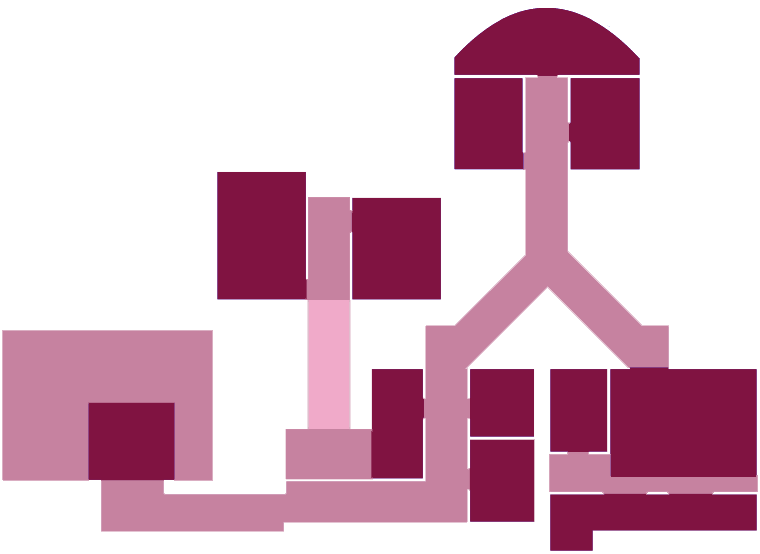
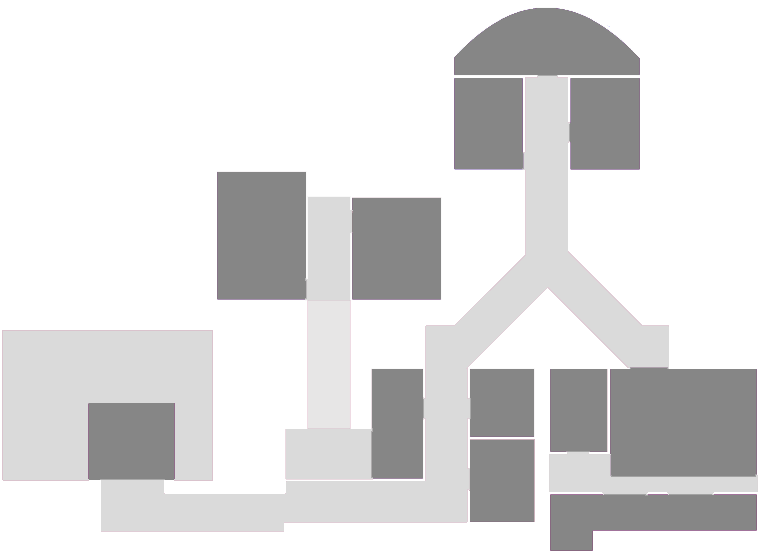
Added Settings Tab and Color Picker
Color Picker made by @KyreusR

I had to remake the branch since the main branch has a different commit history.

diff --git a/hooks/_hooks.cpp b/hooks/_hooks.cpp
@@ -25,9 +25,17 @@ std::vector<MapTexture> maps{
 bool LoadTextureFromFile(const char* filename, ID3D11ShaderResourceView** out_srv, int* out_width, int* out_height) {
 	int image_width = 0;
 	int image_height = 0;
-	unsigned char* image_data = stbi_load(filename, &image_width, &image_height, NULL, 4);
+	int channels = 0;
+	unsigned char* image_data = stbi_load(filename, &image_width, &image_height, &channels, 4);
 	if (image_data == NULL)
 		return false;
+
+	for (int i = 0; i < (image_width * image_height * channels); i += channels) {
+		if (image_data[i] == 255 && image_data[i + 1] == 255 && image_data[i + 2] == 255) continue;
+		image_data[i] *= State.SelectedColor.x;
+		image_data[i + 1] *= State.SelectedColor.y;
+		image_data[i + 2] *= State.SelectedColor.z;
+	}
 
 	D3D11_TEXTURE2D_DESC desc;
 	ZeroMemory(&desc, sizeof(desc));
@@ -137,6 +145,13 @@ HRESULT __stdcall hkPresent(IDXGISwapChain* pSwapChain, UINT SyncInterval, UINT 
 	}
 
 	if (IsInGame() && State.ShowRadar && (!State.InMeeting || !State.HideRadar_During_Meetings)) {
+		if (State.LastColor.x != State.SelectedColor.x || State.LastColor.y != State.SelectedColor.y || State.LastColor.z != State.SelectedColor.z) {
+			int MapType = (*Game::pShipStatus)->fields.Type;
+			LoadTextureFromFile(getModulePath().append("resources\\").append(maps[MapType].name).c_str(), &maps[MapType].buffer, &maps[MapType].width, &maps[MapType].height);
+			State.LastColor.x = State.SelectedColor.x;
+			State.LastColor.y = State.SelectedColor.y;
+			State.LastColor.z = State.SelectedColor.z;
+		}
 		Radar::Render();
 	}
 

diff --git a/gui/menu.cpp b/gui/menu.cpp
@@ -4,11 +4,12 @@ using namespace app;
 
 namespace Menu {
 	void Init() {
-		ImGui::SetNextWindowSize(ImVec2(400, 270), ImGuiCond_Once);
+		ImGui::SetNextWindowSize(ImVec2(435, 270), ImGuiCond_Once);
 		ImGui::SetNextWindowBgAlpha(1.F);
 	}
 
 	bool init = false;
+	bool firstRender = true;
 	void Render() {
 		if (!init)
 			Menu::Init();
@@ -16,6 +17,8 @@ namespace Menu {
 		ImGui::Begin("AmongUsMenu", &State.ShowMenu, ImGuiWindowFlags_NoCollapse | ImGuiWindowFlags_NoResize);
 		ImGui::BeginTabBar("AmongUs#TopBar", ImGuiTabBarFlags_NoTabListScrollingButtons);
 
+		if(!firstRender)
+			SettingsTab::Render();
 		GameTab::Render();
 		SelfTab::Render();
 		RadarTab::Render();
@@ -34,6 +37,9 @@ namespace Menu {
 			State.FollowerCam = nullptr;
 			State.EnableZoom = false;
 		}
+
+		if(firstRender)
+			firstRender = false;
 
 		ImGui::EndTabBar();
 		ImGui::End();

diff --git a/gui/theme.hpp b/gui/theme.hpp
@@ -1,9 +1,24 @@
 #pragma once
 #include <imgui/imgui.h>
+#include "state.hpp"
 
-#define HI(v)   ImVec4(0.502f, 0.075f, 0.256f, v)
-#define MED(v)  ImVec4(0.455f, 0.198f, 0.301f, v)
-#define LOW(v)  ImVec4(0.232f, 0.201f, 0.271f, v)
+#define BG(v)   ImVec4(0.200f, 0.220f, 0.270f, v)
+
+ImVec4 HI(float v) {
+	ImVec4 vec = State.SelectedColor;
+	return ImVec4(vec.x, vec.y, vec.z, v);
+}
+
+ImVec4 MED(float v) {
+	ImVec4 vec = State.SelectedColor;
+	return ImVec4(vec.x / 1.5, vec.y / 1.5, vec.z / 1.5, v);
+}
+
+ImVec4 LOW(float v) {
+	ImVec4 vec = State.SelectedColor;
+	return ImVec4(vec.x / 2, vec.y / 2, vec.z / 2, v);
+}
+
 #define BG(v)   ImVec4(0.200f, 0.220f, 0.270f, v)
 #define IMGUI_TEXT(v) ImVec4(0.860f, 0.930f, 0.890f, v)
 

diff --git a/gui/tabs/settings_tab.cpp b/gui/tabs/settings_tab.cpp
@@ -1,0 +1,17 @@
+#include "settings_tab.h"
+
+namespace SettingsTab {
+	void Render() {
+		if (ImGui::BeginTabItem("Settings")) {
+
+			ImGui::Dummy(ImVec2(4, 4));
+			ImGui::Text("Change Theme Color:");
+			ImGui::Dummy(ImVec2(4, 4));
+			ImGui::PushItemWidth(ImGui::GetWindowWidth() / 3.5);
+			ImGui::ColorPicker4("##picker", (float*)&State.SelectedColor, ImGuiColorEditFlags_NoInputs | ImGuiColorEditFlags_NoLabel | ImGuiColorEditFlags_PickerHueWheel);
+			ImGui::PopItemWidth();
+
+			ImGui::EndTabItem();
+		}
+	}
+} 

diff --git a/gui/tabs/settings_tab.h b/gui/tabs/settings_tab.h
@@ -1,0 +1,13 @@
+#pragma once
+#include <vector>
+#include "il2cpp-appdata.h"
+#include <imgui/imgui.h>
+#include "imgui/imgui_internal.h"
+#include "state.hpp"
+#include "game.hpp"
+#include "utility.h"
+#include "gui-helpers.hpp"
+
+namespace SettingsTab {
+	void Render();
+}

diff --git a/user/state.hpp b/user/state.hpp
@@ -86,6 +86,8 @@ public:
 	Camera* FollowerCam = nullptr;
 	bool EnableZoom = false;
 
+	ImVec4 SelectedColor = ImVec4(0.502f, 0.075f, 0.256f, 1);
+	ImVec4 LastColor = ImVec4(0.502f, 0.075f, 0.256f, 1);
 
 	bool FollowPlayer = false;
 	PlayerControl PlayerToFollow;

diff --git a/gui/menu.hpp b/gui/menu.hpp
@@ -8,6 +8,7 @@
 #include <cmath>
 #include "state.hpp"
 #include "game.hpp"
+#include "tabs/settings_tab.h"
 #include "tabs/game_tab.h"
 #include "tabs/radar_tab.h"
 #include "tabs/players_tab.h"
